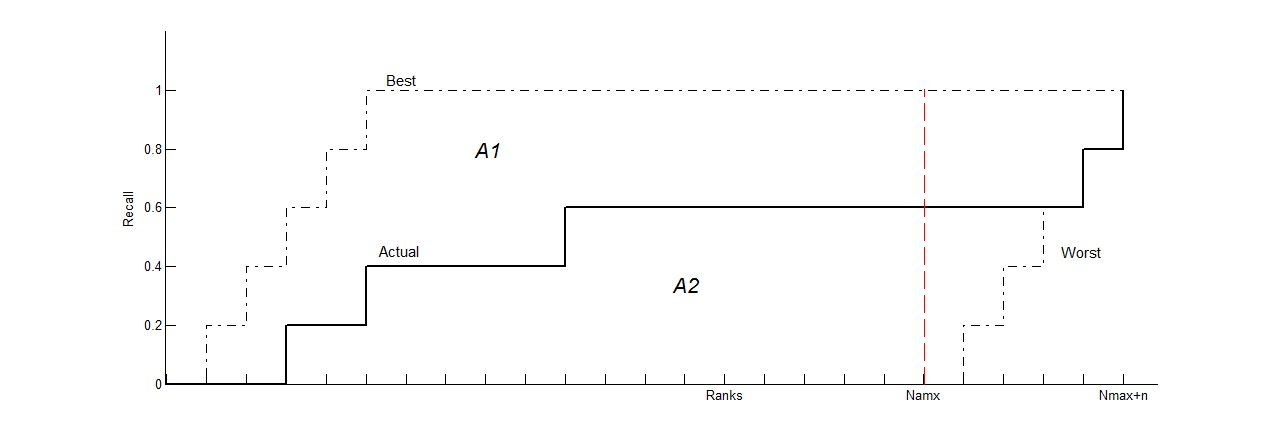
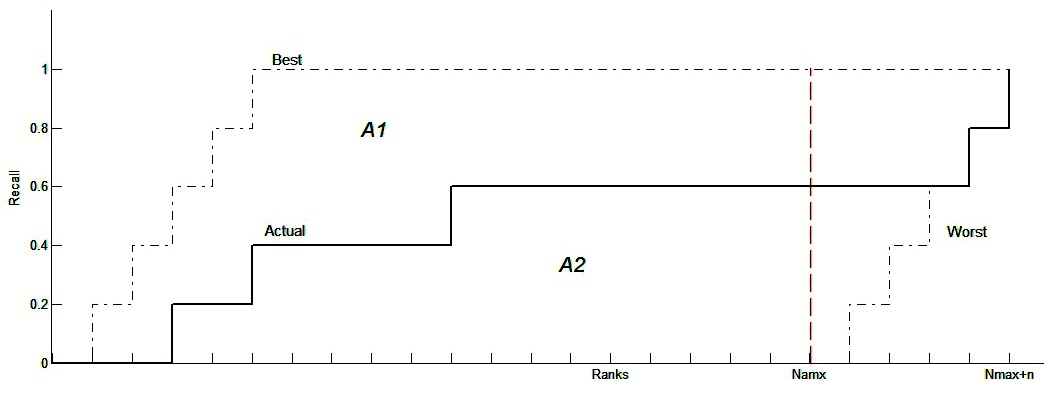
thesis

diff --git a/MONA-thesis/background/metadata.tex b/MONA-thesis/background/metadata.tex
@@ -1,22 +1,22 @@
-The main textual content of patent documents is known to be difficult to process with traditional text processing and text retrieval techniques, but patents contain additional material, such as: tables, mathematical and chemical formulas, citations, technical drawing, meta-data, e.g., applicant, inventor, Intentional Patent Classification (IPC) codes, and publication date, that can be used to improve the retrieval. In this section, the use of patent meta-data to improve the retrieval has been explained.
+The main textual content of patent documents is known to be difficult to process with traditional text processing and text retrieval techniques; however, patents contain additional material, namely, tables, mathematical and chemical formulas, citations, technical drawing, meta-data (e.g., applicant, inventor, IPC codes, and publication date) that can be used to improve the retrieval. We explain the non-text information (e.g., meta-data) in patents that are used to improve the retrieval performance as follows:
 \paragraph{The Use of Citation}
 \ \\
-The most successful use of metadata to date is the citation lists in order to learn patterns of relevance ~\citep{lupu2013patent}. The patent collection is a very dense network of citations creating a set of interrelations particularly interesting to exploit during a prior art search. The large majority of patents are continuations of previous works and patents. The citation relations make this development process
-visible. Similarly, fundamental patents which open new technologies sub-fields are exceptional but tends to be cited very frequently in the whole sub-field during years. Citation graph of a patent collection is used for identifying patent thickets, i.e. the patent portfolios of several companies overlapping on a similar technical aspect. Related patents can be inferred from the overall citation network of a patent collection. If a new patent applicant belonging to this patent ticket appears, it is very likely that the most relevant prior art documents are already
+The most successful use of meta-data to date is the citation lists in order to learn patterns of relevance~\citep{lupu2013patent}. The patent collection is a very dense network of citations that creates a set of interrelations and can be exploited during a prior art search. The large majority of patents continue the previous works and patents. The citation relations make this development process
+visible. Similarly, fundamental patents, which open a new technology, are exceptional; they tend to be cited very frequently in the whole sub-field during years. A citation graph of a patent collection is used for identifying patent thickets (i.e., the patent portfolios of several companies overlap on a similar technical aspect). Related patents can be inferred from the overall citation network of a patent collection. If a new patent applicant belonging to this patent ticket appears, it is very likely that the most relevant prior art documents are already
 present in this patent thicket~\citep{lopez2009multiple}.
 
-The patents cited in the description of the topic patent are used as relevant documents, because citations are usually prior arts for a citing patent. Only citations which are in the collection can be helpful in the retrieval process. The idea of \textit{PageRank}-identifying authoritative pages by analysing hyperlink structure on World Wide Web\_ can be used for citations. A patent, which is cited by a large number of other patents, is more important. Text-based and citation-based scores combined to compute the ranking score for documents~\citep{fujii2007enhancing, fujii2007integrating}.
+The patents cited in the description of the topic patent are used as relevant documents, because citations are usually prior arts for a citing patent. Only citations which are in the collection can be helpful in the retrieval process. The idea of PageRank --- identifying authoritative pages by analysing hyperlink structure on World Wide Web --- can be used for citations. A patent, which is cited by a large number of other patents, is more important. Text-based and citation-based scores are combined to compute the ranking score for the documents~\citep{fujii2007enhancing, fujii2007integrating}.
 
-Citation texts for patents are a whole paragraph. Therefore, for each patent document presented and cited in the collection, the entire paragraph of citation can be appended to the textual material of the cited patent. A boolean feature uses to indicate weather a cited patent in query patent has retrieved, then this document can get a higher weight at any future post-ranking process. Due to the limited number of citation texts, this approach showed just a trivial improvement~\citep{lopez2009multiple}. However, citation information does not always presented in the patent application and this method can not be used in real life patent search and initial citations by the applicants may not consider relevant by patent examiners~\citep{magdy2010applying, magdy2011simple}. 
+Citation texts for patents are a whole paragraph. Therefore, for each patent document presented and cited in the collection, the entire paragraph of citation can be appended to the textual material of the cited patent. A boolean feature uses to indicate weather a cited patent in query patent has retrieved, then this document can get a higher weight at any future post-ranking process. Due to the limited number of citation texts, this approach showed just a trivial improvement~\citep{lopez2009multiple}. However, citation information is not always presented in the patent application and this method cannot be used in real-life patent search and initial citations by the applicants may not consider relevant by patent examiners~\citep{magdy2010applying, magdy2011simple}. 
 
-Similar tasks also indicated improvement in 'MAP' and 'Recal' using citations in patent retrieval~\citep{gobeill2010simple, gurulingappa2010prior}. 
+Similar tasks also indicated improvement in MAP and Recall using citations in patent retrieval~\citep{gobeill2010simple, gurulingappa2010prior}. 
 \paragraph{The Use of IPC Codes}
 \ \\
 Patents are classified by the patent offices into large hierarchical classification schemes based on their area of technology. The use of patent
 classification has two major benefits. The first is that the classifications provide access to concepts rather than words, such that even
 if the same word or phrase is commonly used in two technology areas, patent classifications will provide the context of its use. In effect, they
 allow the search space of patents to be reduced, by allowing the user to exclude from the search process patents in classes not related to
-the search topic at hand~\citep{lopez2010patatras}. The second major benefit is the language independence provided by classifications, as classification symbols can be mapped to multiple languages~\citep{DBLP:conf/clef/DhondtV10}. This allows patent searchers to conduct reasonably effective retrieval even in languages that they do not understand. All previous works, considered IPC code in their search, reported improvement in retrieval effectiveness~\citep{harris2010comparison, harris2011using, harris2009role, fujita2005revisiting, graf2010knowledge, herbert2010prior, kang2007cluster, verma2011applying}. It has also reported that using complete IPC code leads in better results than just 4-digit code~\citep{ gobeill2010simple}.
+the search topic at hand~\citep{lopez2010patatras}. The second major benefit is the language independence provided by classifications, as classification symbols can be mapped to multiple languages~\citep{DBLP:conf/clef/DhondtV10}. This allows patent searchers to conduct reasonably effective retrieval even in languages that they do not understand. All previous work, considered IPC code in their search, reported improvement in retrieval effectiveness~\citep{harris2010comparison, harris2011using, harris2009role, fujita2005revisiting, graf2010knowledge, herbert2010prior, kang2007cluster, verma2011applying}. It has also reported that using complete IPC code leads in better results than just 4-digit code~\citep{ gobeill2010simple}.
 \paragraph{The Use of Images}
 \ \\
-For the purposes of the search for innovation, we are interested in all forms of information. Some technology areas rely information present in images (flowcharts and diagrams), so, beyond text data, image processing tasks also can contribute to the search. Graph-based measure has a higher discriminative power, but higher computational costs than the text-based measures~\citep{lupu2013evaluating}.
+For the purposes of the search for innovation, we are interested in all forms of information. Some technology areas rely information present in images (flowcharts and diagrams), so, beyond text data, image processing tasks also can contribute to the search~\citep{lupu2013patent}. A graph-based measure has a higher discriminative power, but higher computational costs than the text-based measures~\citep{lupu2013evaluating}.

diff --git a/MONA-thesis/background/metrics-p.tex b/MONA-thesis/background/metrics-p.tex
@@ -1,22 +1,21 @@
 The simplest solution to measure the performance in a recall focused IR task is to evaluate the recall, however, it fails to reflect how early a system retrieves the relevant documents. Although recall is the objective for such applications, the score should be able to distinguish between systems that retrieve relevant documents earlier than those that retrieve them later. For recall-oriented IR applications, the problem is viewed as a ranking problem with a cut-off for a maximum number of documents to be checked $ N_{max} $.\\\\
-\textbf{Patent Retrieval Evaluation Score (PRES)}
+\textbf{Patent Retrieval Evaluation Score}
 \ \\
-PRES is a novel metric for evaluating recall-oriented IR applications, which derived from the normalized recall measure ($ R_{norm} $). It measures the ability of a system to retrieve all known relevant documents earlier in the ranked list. Unlike MAP and Recall, PRES is dependent on the relative effort exerted by users to find relevant documents. This is mapped by $ N_{max} $ (Equation \ref{eq:pres}), which is an adjustable parameter that can be set by users and indicates the maximum number of documents they are willing to check in the ranked list. PRES measures the effectiveness of ranking documents relative to the best and worst ranking cases, where the best ranking case is retrieving all relevant documents at the top of the list, and the worst is to retrieve all the relevant documents just after the maximum number of documents to
-be checked by the user ($ N_{max} $). The idea behind this assumption is that getting any relevant document after $ N_{max} $ leads to it being missed by the user, and getting all relevant documents after max leads to zero Recall, which is the theoretical worst case scenario. 
+Patent retrieval evaluation score (PRES)~\citep{magdy2010pres} is a novel metric for evaluating recall-oriented IR applications, which derived from the normalised recall measure ($ R_{norm} $). It measures the ability of a system to retrieve all known relevant documents earlier in the ranked list. Unlike MAP and Recall, PRES is dependent on the relative effort exerted by users to find relevant documents. This is mapped by $ N_{max} $ (Equation \ref{eq:pres}), which is an adjustable parameter that can be set by users and indicates the maximum number of documents they are willing to check in the ranked list. PRES measures the effectiveness of ranking documents relative to the best and worst ranking cases, where the best ranking case is retrieving all relevant documents at the top of the list, and the worst is to retrieve all the relevant documents just after the maximum number of documents to
+be checked by the user ($ N_{max} $). The idea behind this assumption is that getting any relevant document after $ N_{max} $ leads to it being missed by the user, and getting all relevant documents after max leads to a zero recall, which is the theoretical worst case scenario. 
 %Figure 1 shows an illustrative graph of how to calculate PRES, where 
 PRES is the area between the actual and worst cases ($ A_{2} $) divided by the area between the best and worst cases ($ A_{1}+A_{2} $).
-$ N_{max} $ introduces a new definition to the quality of ranking of relevant results, as the ranks of results are relative to the value of $ N_{max} $. For example, getting a relevant document at rank 10 will be very good when $ N_{max}=1000 $, good when $ N_{max}=100 $, but bad when $ N_{max}=15 $, and very bad when $ N_{max}=10 $. Systems with higher Recall can achieve a lower PRES value when compared to systems with lower Recall but better average ranking. The PRES value varies from $ R $ to $ \frac{nR^{2}}{N_{max}} $, where $ R $ is the Recall, according to the average quality of ranking of relevant documents.
+$ N_{max} $ introduces a new definition to the quality of ranking of relevant results, as the ranks of results are relative to the value of $ N_{max} $. For example, getting a relevant document at the rank 10 will be very good when $ N_{max}=1000 $, good when $ N_{max}=100 $, but bad when $ N_{max}=15 $, and very bad when $ N_{max}=10 $. Systems with a higher recall can achieve a lower PRES value when compared to systems with a lower recall but a better average ranking. The PRES value varies from $ R $ to $ \frac{nR^{2}}{N_{max}} $, where $ R $ is the recall, according to the average quality of ranking of relevant documents.
 \begin{figure}[htpb]
    \centering
 %   \includegraphics[width=1\textwidth,height=50mm]{figs/pres.jpg}
-   \includegraphics[scale=.5]{figs/pres.jpg}
+   \includegraphics[scale=.37]{figs/pres.jpg}
    \caption{PRES curve is bounded between the best case and the new defined worst case~\citep{magdy2010pres}.}  
    \label{fig:pres} 
 \end{figure}
 \FloatBarrier 
 \begin{equation}
 \label{eq:pres}
-PRES=\frac{A_{2}}{A_{1}+A_{2}}=1-\frac{\frac{\sum r_{i}}{n}-\frac{n+1}{2}}{N_{max}}
+PRES=\frac{A_{2}}{A_{1}+A_{2}}=1-\frac{\frac{\sum r_{i}}{n}-\frac{n+1}{2}}{N_{max}},
 \end{equation}
-
-where $ r_{i} $ is the rank at which the $ i $th relevant document is retrieved, $ N_{max} $ is the maximum number of retrieved documents to be checked by the user, i.e. the cut-off number of retrieved documents, and $ n $ is the total number of relevant documents~\citep{magdy2010pres}.
+where $ r_{i} $ is the rank at which the $ i $th relevant document is retrieved, $ N_{max} $ is the maximum number of retrieved documents to be checked by the user (i.e. the cut-off number of retrieved documents) and $ n $ is the total number of relevant documents.

diff --git a/MONA-thesis/background/multilinguality.tex b/MONA-thesis/background/multilinguality.tex
@@ -1,4 +1,4 @@
-The interest in multilingual patent search arises from their international and multilingual nature (the European patent office-EPO-makes patent text available in three languages: English, French, and German). Patents on the same topic may be published in different countries in different languages, and it is important for patent examiners to be able to locate relevant existing patents whatever language they are published in. Therefore an important topic in patent retrieval is Cross-Language Information Retrieval (CLIR), where the topic is a patent application in one language and the objective is to find relevant prior-art patents in another language ~\citep{lupu2013patent,joho2010survey, roda2010clef, DBLP:conf/clef/PiroiLHSMF12}. In recent years machine
+The interest in multilingual patent search arises from their international and multilingual nature (the EPO makes patent text available in three languages: English, French, and German). Patents on the same topic may be published in different countries in different languages, and it is important for patent examiners to be able to locate relevant existing patents whatever language they are published in. Therefore an important topic in patent retrieval is Cross-Language Information Retrieval (CLIR), where the topic is a patent application in one language and the objective is to find relevant prior-art patents in another language ~\citep{lupu2013patent,joho2010survey, roda2010clef, DBLP:conf/clef/PiroiLHSMF12}. In recent years machine
 translation (MT) has become established as the dominant technique for translation in CLIR, which usually achieve better CLIR effectiveness than dictionary-based translation (DBT) methods. However, translation using MT is time consuming and resource intensive for cross language patent retrieval (CLPR), where the query text can often take the form of a full patent application running to tens of pages. Applying IR text pre-processing like stop word removal and stemming to the MT training corpus prior to the training phase can lead to a significant decrease in the MT computational~\citep{magdy2013studying}.
 
 
